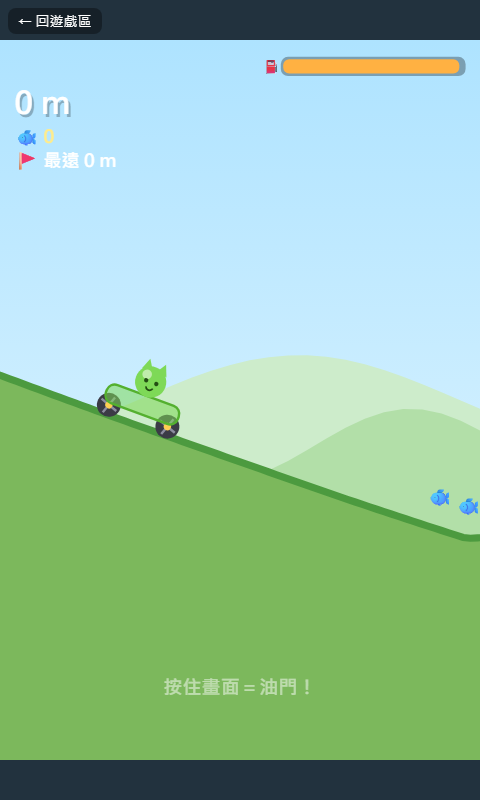
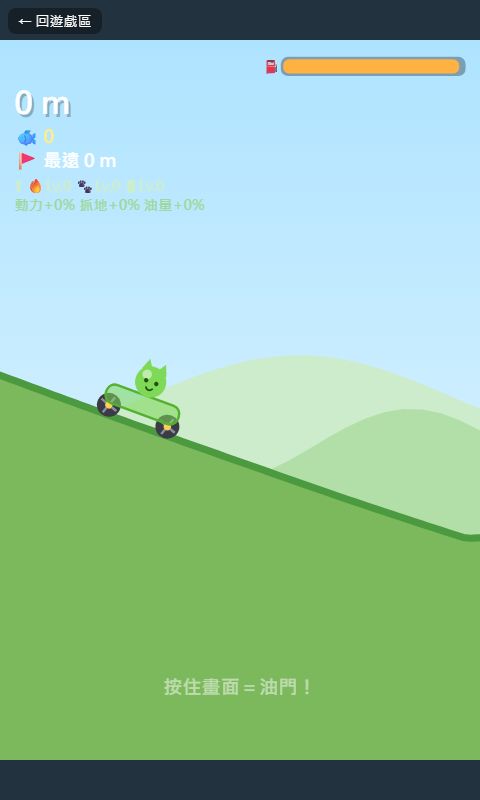
🔧 修復《喵車衝多遠》：[玩家留言] 好玩 但升級的感覺不明顯 ➜ 升級當下顯示浮動數值文字（如「速度

Changed region(s): [[0.0312, 0.2188, 0.4375, 0.2812], [0.9062, 0.5938, 1.0, 0.6562]]

diff --git a/games/2026-08-30-001/index.html b/games/2026-08-30-001/index.html
@@ -38,6 +38,8 @@ function save(){try{localStorage.setItem('meowcar_v1',JSON.stringify({c:coins,p:
 load();
 const price=l=>Math.round(30*Math.pow(1.8,l)); // 升級價格：永遠吊在下一局門檻
 const powerAcc=()=>300+pw*85, maxV=()=>340+pw*30, grip=()=>1+gp*0.35, fuelMax=()=>100+fl*38;
+const UPPCT=[Math.round(8500/300),35,38]; // 每級加成%（浮動文字與 HUD 共用同一組數字）
+const UPNAME=['🔥 動力','🐾 抓地','🛢 油量'];
 
 // ====== WebAudio 合成音效 ======
 let AC=null,engO=null,engG=null;
@@ -96,7 +98,7 @@ let fuel=0,runT=0,maxX=40,noProg=0,fishRun=0,combo=0,comboT=0;
 let camX=cart.x-120,camY=cart.y-300,input=false,sq=1,wheelSpin=0,prevGround=true,passedFlag=false;
 let shakeT=0,shakeA=0,dieT=0,overT=0,rollTick=0;
 let fishes=[],cans=[],genX=200,nextCan=1500;
-let parts=[],floats=[];
+let parts=[],floats=[],flashT=0;
 let ov=null;
 
 function startRun(){ // 一鍵重開，零等待
@@ -258,6 +260,7 @@ function updateFx(dt){
   for(const f of floats)f.t+=dt;
   floats=floats.filter(f=>f.t<1.2);
   if(shakeT>0)shakeT-=dt;
+  if(flashT>0)flashT-=dt;
 }
 
 // ====== 商店與按鈕 ======
@@ -269,8 +272,9 @@ function buyUp(i){
   coins-=c;
   if(i===0)pw++;else if(i===1)gp++;else fl++;
   save();
-  beep(523,0.07,'square',0.08);setTimeout(()=>beep(784,0.09,'square',0.08),70);
-  addFloat(camX+200,camY+ROWY+i*ROWH,'升級成功！','#7ed957');
+  beep(523,0.3,'square',0.09,1046); // 0.3 秒升級音效
+  flashT=0.6; // 角色閃光
+  addFloat(camX+200,camY+ROWY+i*ROWH,UPNAME[i]+' +'+UPPCT[i]+'%','#7ed957',1);
 }
 function overClick(p){
   for(let i=0;i<3;i++){
@@ -326,6 +330,13 @@ function drawCart(x,y,a,s){ // 史萊姆貓＋果凍推車
   ctx.beginPath();ctx.arc(5,-16,1.8,0,6.28);ctx.fill();
   ctx.strokeStyle='#234d13';ctx.lineWidth=1.5;
   ctx.beginPath();ctx.arc(0.5,-12,3,0.2,2.9);ctx.stroke();
+  if(flashT>0){ // 升級閃光：整隻貓＋推車泛白
+    ctx.globalAlpha=Math.min(1,flashT/0.3)*0.7;
+    ctx.fillStyle='#fff';
+    ctx.beginPath();ctx.arc(0,-16,17,0,6.28);ctx.fill();
+    rr(-34,-6,68,22,9);ctx.fill();
+    ctx.globalAlpha=1;
+  }
   ctx.restore();
 }
 function drawWorld(){
@@ -367,6 +378,9 @@ function drawWorld(){
   drawCart(cart.x-camX,cart.y-camY+bob,cart.a,sq);
   for(const p of parts){ctx.globalAlpha=Math.max(0,1-p.t/p.life);ctx.fillStyle=p.col;ctx.beginPath();ctx.arc(p.x-camX,p.y-camY,p.r,0,6.28);ctx.fill();}
   ctx.globalAlpha=1;
+}
+function drawFloats(){ // 浮動文字最後畫：結算畫面的升級提示也不會被遮住
+  ctx.textBaseline='alphabetic';
   for(const f of floats){
     ctx.globalAlpha=Math.max(0,1-f.t/1.2);ctx.fillStyle=f.col;
     ctx.font=(f.big?'bold 20px ':'bold 14px ')+'sans-serif';ctx.textAlign='center';
@@ -384,6 +398,9 @@ function drawHUD(){
   ctx.font='bold 15px sans-serif';
   ctx.fillStyle='#ffec8b';ctx.fillText('🐟 '+fishRun,12,86);
   ctx.fillStyle='#fff';ctx.fillText('🚩 最遠 '+best+' m',12,106);
+  ctx.font='bold 12px sans-serif'; // 常駐升級狀態：目前等級＋累積加成
+  ctx.fillStyle='#cdeecb';ctx.fillText('⬆ 🔥Lv.'+pw+' 🐾Lv.'+gp+' 🛢Lv.'+fl,12,126);
+  ctx.fillStyle='#9fd89f';ctx.fillText('動力+'+(pw*UPPCT[0])+'% 抓地+'+(gp*UPPCT[1])+'% 油量+'+(fl*UPPCT[2])+'%',12,142);
   const fw=150,fx=W-fw-14,fy=16; // 油量條
   ctx.fillStyle='rgba(0,0,0,0.3)';rr(fx-2,fy-2,fw+4,16,6);ctx.fill();
   const fr=Math.max(0,fuel/fuelMax());
@@ -475,6 +492,7 @@ function render(){
   drawHUD();
   if(state==='title')drawTitle();
   if(state==='over')drawOver();
+  drawFloats();
 }
 function updateEngine(){ // 引擎聲隨車速起伏
   if(!AC||!engG)return;

diff --git a/games.js b/games.js
@@ -1128,6 +1128,22 @@ const GAMES = [
     "genre": "街機",
     "date": "2026-08-30",
     "desc": "按住油門衝下貓坡，距離換魚乾當場升級，一趟比一趟遠！",
-    "ai_score": 37
+    "ai_score": 37,
+    "bugs": [
+      {
+        "date": "2026-09-03",
+        "note": "[玩家留言] 好玩 但升級的感覺不明顯 ➜ 升級當下顯示浮動數值文字（如「速度 +10%」）並加 0.3 秒音效與角色閃光；HUD 常駐顯示目前等級與累積加成，讓每次升級的差異可見",
+        "status": "fixed",
+        "source": "web",
+        "fixed_at": "2026-09-03"
+      }
+    ],
+    "updated_at": "2026-09-03",
+    "changelog": [
+      {
+        "date": "2026-09-03",
+        "summary": "升級現在看得到、聽得到、還會閃一下，數值成長不再霧裡看花！"
+      }
+    ]
   }
 ];

diff --git a/index.html b/index.html
@@ -213,7 +213,7 @@
 
 <script src="sc_config.js"></script>
 <script src="stats.js"></script>
-<script src="games.js?v=e9e87ffa"></script>
+<script src="games.js?v=3287a8b8"></script>
 <script>
 const appStatus = document.getElementById("app-status");
 const app = document.getElementById("app");

diff --git a/factory/knowledge/learnings.md b/factory/knowledge/learnings.md
@@ -221,3 +221,5 @@
 - 2026-09-02 檢討會：《敲開這顆喵》web 3「蠻無聊的」是第四次「自評早寫明缺陷（中後期難度封頂）仍照樣出貨→玩家原句複述」——blocker gate 不落成程式碼，每款新作都在付費重驗同一個教訓，本週已無任何新增資訊價值。
 - 2026-09-02 檢討會：大廳惡化訊號出現：return_rate 從 0.19 掉到 0.15、devices 卡死 39、med 仍 7s，連續十四週零改動——分發不修，連翻案成功的慢熱款（喵掌夾殺戰、喵車衝多遠）也拿不到第二波曝光，修好的東西一樣沒人玩到。
 - 2026-09-02 檢討會：兩款 web 8（貓灶封潮夜、貓客滿樓）閒置已滿三週、貓客滿樓加時修復17天無修後數據——最高價值資產的折舊正在發生；大廳上線當日首屏就該直開貓客滿樓，把「無限模式」旗艦化當成上線後第一個內容交付。
+- 2026-09-03 玩家留言《喵車衝多遠》7/10：好玩 但升級的感覺不明顯 ➜ 升級的數值成長必須配上即時可見的視聽回饋，玩家才感受得到變強
+- 2026-09-03 修復《喵車衝多遠》：[玩家留言] 好玩 但升級的感覺不明顯 ➜ 升級當下顯示浮動數值文字（如「速度 +10%」）並加 0.3 秒音效與角色閃光；HUD 常駐顯示目前等級與累積加成，（AI 修復+品管通過）
